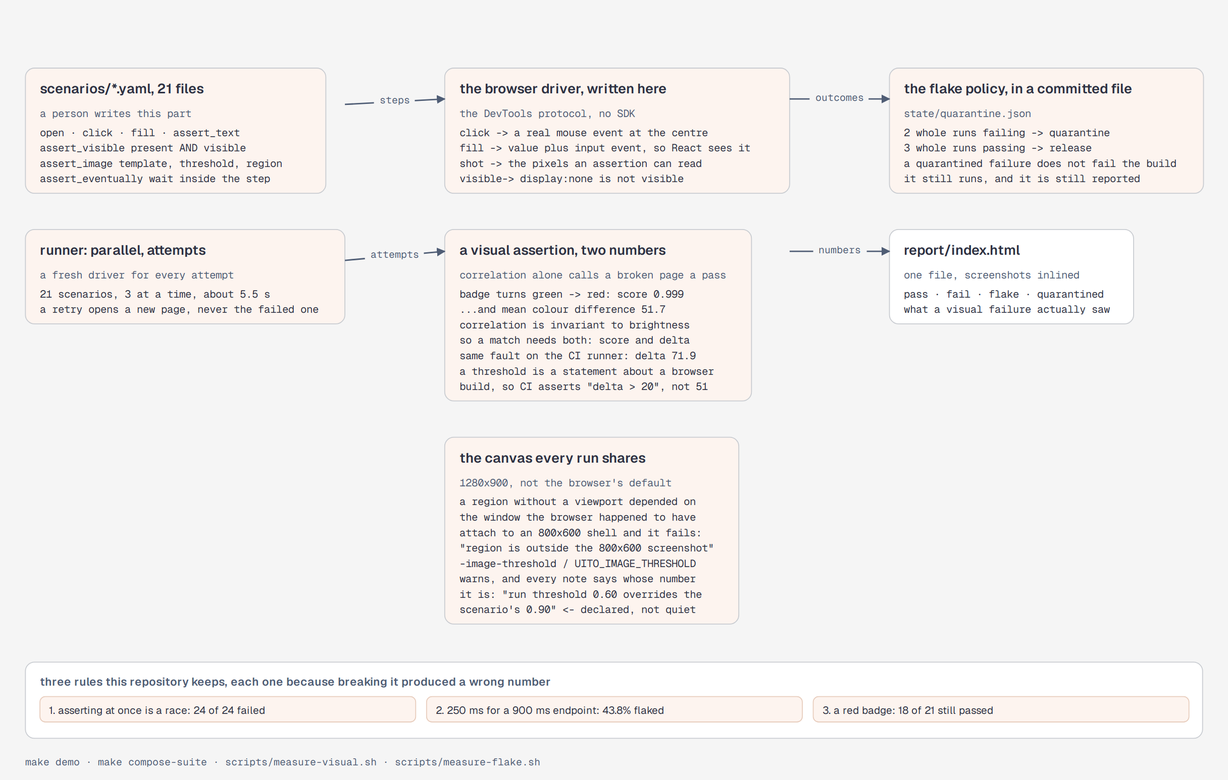
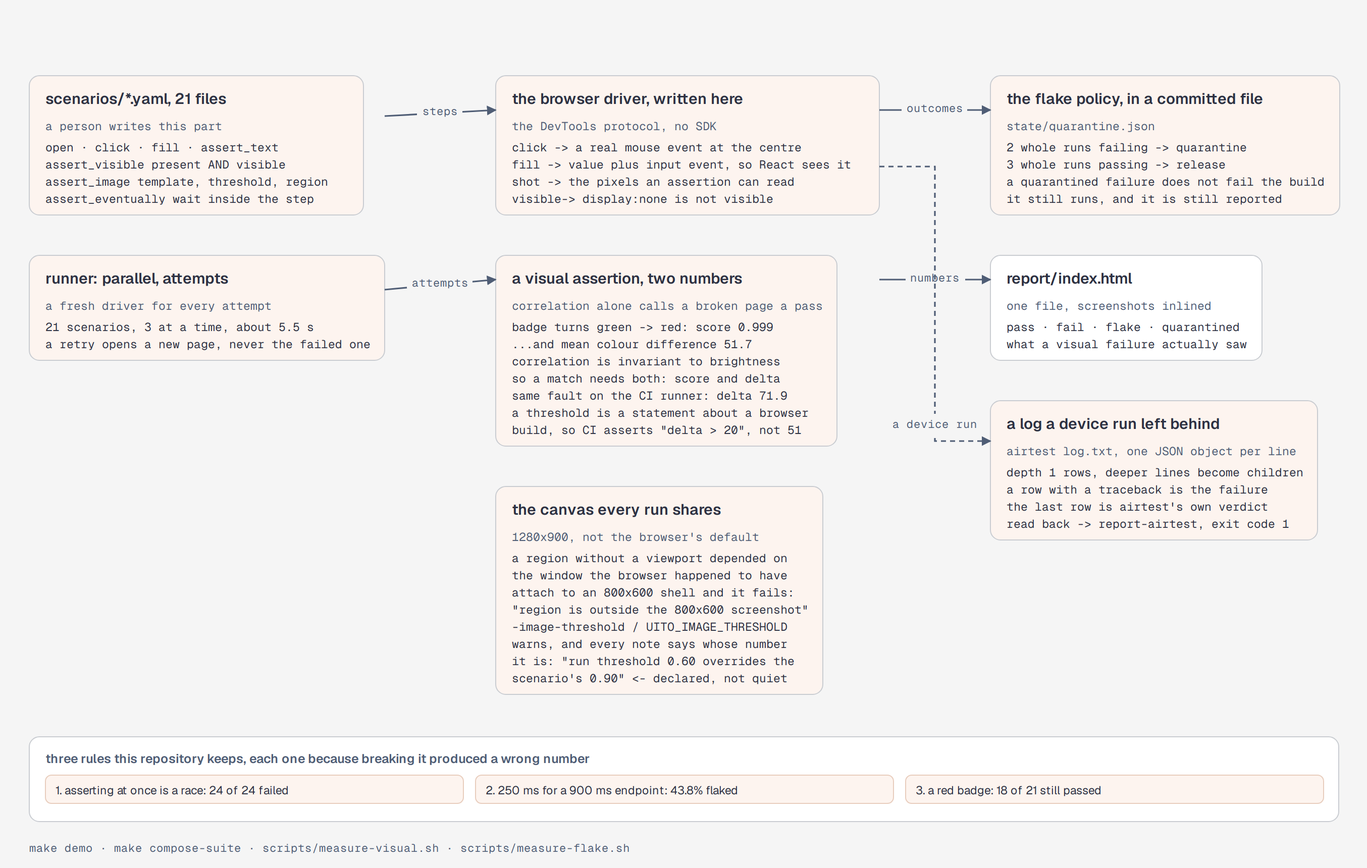
docs(figure): the device log, as the second thing that reaches this repository
The flow figure answers 'what does a scenario run do'; a device run arrives the other way round, so
the log reader gets its own block and a dashed route from the driver that would drive it. Sources now
name internal/airtestlog, and the export is regenerated.

diff --git a/docs/figures/ui-test-orchestrator-flow.html b/docs/figures/ui-test-orchestrator-flow.html
@@ -1,4 +1,4 @@
-<!-- diagram-meta {"topic":"ui-test-orchestrator-flow","level":"runtime","type":"flowchart","question":"What does a scenario run do, and what did each part measure?","sources":["cmd/orchestrator/main.go","internal/scenario/scenario.go","internal/runner/runner.go","internal/driver/cdp.go","internal/vision/vision.go","internal/flake/flake.go","internal/report/report.go","internal/app/app.go","scenarios","scenarios-flaky","scripts/measure-visual.sh","scripts/measure-flake.sh","scripts/demo-policy.sh","state/quarantine.json","Dockerfile","docker-compose.yml","Makefile",".github/workflows/ci.yml","README.md"],"updated":"2026-10-12"} -->
+<!-- diagram-meta {"topic":"ui-test-orchestrator-flow","level":"runtime","type":"flowchart","question":"What does a scenario run do, and what did each part measure?","sources":["cmd/orchestrator/main.go","internal/scenario/scenario.go","internal/runner/runner.go","internal/driver/cdp.go","internal/vision/vision.go","internal/flake/flake.go","internal/report/report.go","internal/app/app.go","scenarios","scenarios-flaky","scripts/measure-visual.sh","scripts/measure-flake.sh","scripts/demo-policy.sh","state/quarantine.json","internal/airtestlog/airtestlog.go","internal/airtestlog/report.go","internal/airtestlog/testdata","Dockerfile","docker-compose.yml","Makefile",".github/workflows/ci.yml","README.md"],"updated":"2026-10-19"} -->
 <!DOCTYPE html>
 <html lang="en">
 <head>
@@ -30,7 +30,7 @@
   <p class="eyebrow">rtc-media-bench · runtime + fault lab</p>
   <h1>Where a call breaks, and the four faults this lab reproduces on purpose</h1>
   <div class="diagram-container">
-<svg viewBox="0 0 1353 859" role="img" aria-labelledby="ui-test-orchestrator-flow-title ui-test-orchestrator-flow-desc" xmlns="http://www.w3.org/2000/svg"><title id="ui-test-orchestrator-flow-title">ui-test-orchestrator: what a scenario run does, and what each part measured</title><desc id="ui-test-orchestrator-flow-desc">A scenario file is executed by a runner that runs several at once and gives every attempt a fresh browser, because retrying on the page that failed re-runs the test in the state that broke it. The driver is written against the DevTools protocol directly: it clicks with a real mouse event at the element centre, fills by setting the value and dispatching the input event so a framework notices, answers whether an element is visible rather than merely present, and captures the pixels an assertion can read. A visual assertion reports two numbers, because correlation alone called a badge that turned red a pass at 0.999: the mean colour difference of 51.7 is what failed it. Outcomes go to a flake policy kept in a committed file, where two whole runs failing quarantine a scenario and three passing release it, and to a report that inlines its screenshots. The three measurements at the bottom are the ones this repository is built around: a check that asserts immediately is a race rather than a flake and fails 24 of 24 runs even with a retry; waiting 250 milliseconds for a 900 millisecond endpoint flakes 43.8 percent of runs while waiting 8 seconds flakes none of 168; and on a page whose status badge turned red, 18 of 21 scenarios still passed, because only the three visual ones looked.</desc><defs><marker id="arrowhead" viewBox="0 0 10 10" refX="9" refY="5" markerWidth="6" markerHeight="6" orient="auto-start-reverse"><path d="M 0 0 L 10 5 L 0 10 z" fill="#4f5d75"/></marker></defs><rect x="28" y="74" width="331" height="138" rx="10" fill="#fdf4ef" stroke="#c9ccd1"/><text x="44" y="102" font-family="'Geist', system-ui, sans-serif" font-size="15" font-weight="600" fill="#2d3142" text-anchor="start">scenarios/*.yaml, 21 files</text><text x="44" y="128" font-family="'Geist Mono', ui-monospace, monospace" font-size="11.5" font-weight="400" fill="#4f5d75" text-anchor="start">a person writes this part</text><text x="44" y="149" font-family="'Geist Mono', ui-monospace, monospace" font-size="11.5" font-weight="400" fill="#2d3142" text-anchor="start">open · click · fill · assert_text</text><text x="44" y="166" font-family="'Geist Mono', ui-monospace, monospace" font-size="11.5" font-weight="400" fill="#2d3142" text-anchor="start">assert_visible  present AND visible</text><text x="44" y="183" font-family="'Geist Mono', ui-monospace, monospace" font-size="11.5" font-weight="400" fill="#2d3142" text-anchor="start">assert_image    template, threshold, region</text><text x="44" y="200" font-family="'Geist Mono', ui-monospace, monospace" font-size="11.5" font-weight="400" fill="#2d3142" text-anchor="start">assert_eventually  wait inside the step</text><rect x="28" y="252" width="352" height="104" rx="10" fill="#fdf4ef" stroke="#c9ccd1"/><text x="44" y="280" font-family="'Geist', system-ui, sans-serif" font-size="15" font-weight="600" fill="#2d3142" text-anchor="start">runner: parallel, attempts</text><text x="44" y="306" font-family="'Geist Mono', ui-monospace, monospace" font-size="11.5" font-weight="400" fill="#4f5d75" text-anchor="start">a fresh driver for every attempt</text><text x="44" y="327" font-family="'Geist Mono', ui-monospace, monospace" font-size="11.5" font-weight="400" fill="#2d3142" text-anchor="start">21 scenarios, 3 at a time, about 5.5 s</text><text x="44" y="344" font-family="'Geist Mono', ui-monospace, monospace" font-size="11.5" font-weight="400" fill="#2d3142" text-anchor="start">a retry opens a new page, never the failed one</text><rect x="490" y="74" width="380" height="138" rx="10" fill="#fdf4ef" stroke="#c9ccd1"/><text x="506" y="102" font-family="'Geist', system-ui, sans-serif" font-size="15" font-weight="600" fill="#2d3142" text-anchor="start">the browser driver, written here</text><text x="506" y="128" font-family="'Geist Mono', ui-monospace, monospace" font-size="11.5" font-weight="400" fill="#4f5d75" text-anchor="start">the DevTools protocol, no SDK</text><text x="506" y="149" font-family="'Geist Mono', ui-monospace, monospace" font-size="11.5" font-weight="400" fill="#2d3142" text-anchor="start">click  -&gt; a real mouse event at the centre</text><text x="506" y="166" font-family="'Geist Mono', ui-monospace, monospace" font-size="11.5" font-weight="400" fill="#2d3142" text-anchor="start">fill   -&gt; value plus input event, so React sees it</text><text x="506" y="183" font-family="'Geist Mono', ui-monospace, monospace" font-size="11.5" font-weight="400" fill="#2d3142" text-anchor="start">shot   -&gt; the pixels an assertion can read</text><text x="506" y="200" font-family="'Geist Mono', ui-monospace, monospace" font-size="11.5" font-weight="400" fill="#2d3142" text-anchor="start">visible-&gt; display:none is not visible</text><rect x="490" y="252" width="338" height="189" rx="10" fill="#fdf4ef" stroke="#c9ccd1"/><text x="506" y="280" font-family="'Geist', system-ui, sans-serif" font-size="15" font-weight="600" fill="#2d3142" text-anchor="start">a visual assertion, two numbers</text><text x="506" y="306" font-family="'Geist Mono', ui-monospace, monospace" font-size="11.5" font-weight="400" fill="#4f5d75" text-anchor="start">correlation alone calls a broken page a pass</text><text x="506" y="327" font-family="'Geist Mono', ui-monospace, monospace" font-size="11.5" font-weight="400" fill="#2d3142" text-anchor="start">badge turns green -&gt; red: score 0.999</text><text x="506" y="344" font-family="'Geist Mono', ui-monospace, monospace" font-size="11.5" font-weight="400" fill="#2d3142" text-anchor="start">...and mean colour difference 51.7</text><text x="506" y="361" font-family="'Geist Mono', ui-monospace, monospace" font-size="11.5" font-weight="400" fill="#2d3142" text-anchor="start">correlation is invariant to brightness</text><text x="506" y="378" font-family="'Geist Mono', ui-monospace, monospace" font-size="11.5" font-weight="400" fill="#2d3142" text-anchor="start">so a match needs both: score and delta</text><text x="506" y="395" font-family="'Geist Mono', ui-monospace, monospace" font-size="11.5" font-weight="400" fill="#2d3142" text-anchor="start">same fault on the CI runner: delta 71.9</text><text x="506" y="412" font-family="'Geist Mono', ui-monospace, monospace" font-size="11.5" font-weight="400" fill="#2d3142" text-anchor="start">a threshold is a statement about a browser</text><text x="506" y="429" font-family="'Geist Mono', ui-monospace, monospace" font-size="11.5" font-weight="400" fill="#2d3142" text-anchor="start">build, so CI asserts &quot;delta &gt; 20&quot;, not 51</text><rect x="490" y="481" width="324" height="206" rx="10" fill="#fdf4ef" stroke="#c9ccd1"/><text x="506" y="509" font-family="'Geist', system-ui, sans-serif" font-size="15" font-weight="600" fill="#2d3142" text-anchor="start">the canvas every run shares</text><text x="506" y="535" font-family="'Geist Mono', ui-monospace, monospace" font-size="11.5" font-weight="400" fill="#4f5d75" text-anchor="start">1280x900, not the browser&#x27;s default</text><text x="506" y="556" font-family="'Geist Mono', ui-monospace, monospace" font-size="11.5" font-weight="400" fill="#2d3142" text-anchor="start">a region without a viewport depended on</text><text x="506" y="573" font-family="'Geist Mono', ui-monospace, monospace" font-size="11.5" font-weight="400" fill="#2d3142" text-anchor="start">the window the browser happened to have</text><text x="506" y="590" font-family="'Geist Mono', ui-monospace, monospace" font-size="11.5" font-weight="400" fill="#2d3142" text-anchor="start">attach to an 800x600 shell and it fails:</text><text x="506" y="607" font-family="'Geist Mono', ui-monospace, monospace" font-size="11.5" font-weight="400" fill="#2d3142" text-anchor="start">&quot;region is outside the 800x600 screenshot&quot;</text><text x="506" y="624" font-family="'Geist Mono', ui-monospace, monospace" font-size="11.5" font-weight="400" fill="#2d3142" text-anchor="start">-image-threshold / UITO_IMAGE_THRESHOLD</text><text x="506" y="641" font-family="'Geist Mono', ui-monospace, monospace" font-size="11.5" font-weight="400" fill="#2d3142" text-anchor="start">warns, and every note says whose number</text><text x="506" y="658" font-family="'Geist Mono', ui-monospace, monospace" font-size="11.5" font-weight="400" fill="#2d3142" text-anchor="start">it is: &quot;run threshold 0.60 overrides the</text><text x="506" y="675" font-family="'Geist Mono', ui-monospace, monospace" font-size="11.5" font-weight="400" fill="#2d3142" text-anchor="start">scenario&#x27;s 0.90&quot;   &lt;- declared, not quiet</text><rect x="980" y="74" width="346" height="138" rx="10" fill="#fdf4ef" stroke="#c9ccd1"/><text x="996" y="102" font-family="'Geist', system-ui, sans-serif" font-size="15" font-weight="600" fill="#2d3142" text-anchor="start">the flake policy, in a committed file</text><text x="996" y="128" font-family="'Geist Mono', ui-monospace, monospace" font-size="11.5" font-weight="400" fill="#4f5d75" text-anchor="start">state/quarantine.json</text><text x="996" y="149" font-family="'Geist Mono', ui-monospace, monospace" font-size="11.5" font-weight="400" fill="#2d3142" text-anchor="start">2 whole runs failing  -&gt;  quarantine</text><text x="996" y="166" font-family="'Geist Mono', ui-monospace, monospace" font-size="11.5" font-weight="400" fill="#2d3142" text-anchor="start">3 whole runs passing  -&gt;  release</text><text x="996" y="183" font-family="'Geist Mono', ui-monospace, monospace" font-size="11.5" font-weight="400" fill="#2d3142" text-anchor="start">a quarantined failure does not fail the build</text><text x="996" y="200" font-family="'Geist Mono', ui-monospace, monospace" font-size="11.5" font-weight="400" fill="#2d3142" text-anchor="start">it still runs, and it is still reported</text><rect x="980" y="252" width="269" height="104" rx="10" fill="#ffffff" stroke="#c9ccd1"/><text x="996" y="280" font-family="'Geist', system-ui, sans-serif" font-size="15" font-weight="600" fill="#2d3142" text-anchor="start">report/index.html</text><text x="996" y="306" font-family="'Geist Mono', ui-monospace, monospace" font-size="11.5" font-weight="400" fill="#4f5d75" text-anchor="start">one file, screenshots inlined</text><text x="996" y="327" font-family="'Geist Mono', ui-monospace, monospace" font-size="11.5" font-weight="400" fill="#2d3142" text-anchor="start">pass · fail · flake · quarantined</text><text x="996" y="344" font-family="'Geist Mono', ui-monospace, monospace" font-size="11.5" font-weight="400" fill="#2d3142" text-anchor="start">what a visual failure actually saw</text><line x1="380" y1="114" x2="490" y2="108" stroke="#4f5d75" stroke-width="1.6" marker-end="url(#arrowhead)"/><rect x="412" y="99" width="45" height="20" rx="5" fill="#f5f5f5" stroke="none"/><text x="435" y="113" font-family="'Geist Mono', ui-monospace, monospace" font-size="11" font-weight="400" fill="#4f5d75" text-anchor="middle">steps</text><line x1="870" y1="108" x2="980" y2="108" stroke="#4f5d75" stroke-width="1.6" marker-end="url(#arrowhead)"/><rect x="892" y="96" width="65" height="20" rx="5" fill="#f5f5f5" stroke="none"/><text x="925" y="110" font-family="'Geist Mono', ui-monospace, monospace" font-size="11" font-weight="400" fill="#4f5d75" text-anchor="middle">outcomes</text><line x1="380" y1="286" x2="490" y2="276" stroke="#4f5d75" stroke-width="1.6" marker-end="url(#arrowhead)"/><rect x="402" y="269" width="65" height="20" rx="5" fill="#f5f5f5" stroke="none"/><text x="435" y="283" font-family="'Geist Mono', ui-monospace, monospace" font-size="11" font-weight="400" fill="#4f5d75" text-anchor="middle">attempts</text><line x1="870" y1="276" x2="980" y2="276" stroke="#4f5d75" stroke-width="1.6" marker-end="url(#arrowhead)"/><rect x="896" y="264" width="59" height="20" rx="5" fill="#f5f5f5" stroke="none"/><text x="925" y="278" font-family="'Geist Mono', ui-monospace, monospace" font-size="11" font-weight="400" fill="#4f5d75" text-anchor="middle">numbers</text><text x="28" y="843" font-family="'Geist Mono', ui-monospace, monospace" font-size="11" font-weight="400" fill="#4f5d75" text-anchor="start">make demo  ·  make compose-suite  ·  scripts/measure-visual.sh  ·  scripts/measure-flake.sh</text><rect x="28" y="729" width="1297" height="84" rx="10" fill="#ffffff" stroke="#c9ccd1"/><text x="44" y="755" font-family="'Geist', system-ui, sans-serif" font-size="12.5" font-weight="600" fill="#4f5d75" text-anchor="start">three rules this repository keeps, each one because breaking it produced a wrong number</text><rect x="44" y="767" width="414" height="28" rx="6" fill="#fdf4ef" stroke="#e8cdbd"/><text x="54" y="786" font-family="'Geist', system-ui, sans-serif" font-size="11.5" font-weight="400" fill="#2d3142" text-anchor="start">1. asserting at once is a race: 24 of 24 failed</text><rect x="470" y="767" width="414" height="28" rx="6" fill="#fdf4ef" stroke="#e8cdbd"/><text x="480" y="786" font-family="'Geist', system-ui, sans-serif" font-size="11.5" font-weight="400" fill="#2d3142" text-anchor="start">2. 250 ms for a 900 ms endpoint: 43.8% flaked</text><rect x="896" y="767" width="414" height="28" rx="6" fill="#fdf4ef" stroke="#e8cdbd"/><text x="906" y="786" font-family="'Geist', system-ui, sans-serif" font-size="11.5" font-weight="400" fill="#2d3142" text-anchor="start">3. a red badge: 18 of 21 still passed</text></svg>
+<svg viewBox="0 0 1353 859" role="img" aria-labelledby="ui-test-orchestrator-flow-title ui-test-orchestrator-flow-desc" xmlns="http://www.w3.org/2000/svg"><title id="ui-test-orchestrator-flow-title">ui-test-orchestrator: what a scenario run does, and what each part measured</title><desc id="ui-test-orchestrator-flow-desc">A scenario file is executed by a runner that runs several at once and gives every attempt a fresh browser, because retrying on the page that failed re-runs the test in the state that broke it. The driver is written against the DevTools protocol directly: it clicks with a real mouse event at the element centre, fills by setting the value and dispatching the input event so a framework notices, answers whether an element is visible rather than merely present, and captures the pixels an assertion can read. A visual assertion reports two numbers, because correlation alone called a badge that turned red a pass at 0.999: the mean colour difference of 51.7 is what failed it. Outcomes go to a flake policy kept in a committed file, where two whole runs failing quarantine a scenario and three passing release it, and to a report that inlines its screenshots. The three measurements at the bottom are the ones this repository is built around: a check that asserts immediately is a race rather than a flake and fails 24 of 24 runs even with a retry; waiting 250 milliseconds for a 900 millisecond endpoint flakes 43.8 percent of runs while waiting 8 seconds flakes none of 168; and on a page whose status badge turned red, 18 of 21 scenarios still passed, because only the three visual ones looked. A device run arrives the other way round: it leaves an Airtest log in a format of its own, and this repository reads it back with Airtest own rules - a row at depth 1, deeper lines as its children, a row whose data carries a traceback marked as the failure - then writes its own report and returns the same exit code a browser run would, so a device run can gate a build instead of waiting to be looked at.</desc><defs><marker id="arrowhead" viewBox="0 0 10 10" refX="9" refY="5" markerWidth="6" markerHeight="6" orient="auto-start-reverse"><path d="M 0 0 L 10 5 L 0 10 z" fill="#4f5d75"/></marker></defs><rect x="28" y="74" width="331" height="138" rx="10" fill="#fdf4ef" stroke="#c9ccd1"/><text x="44" y="102" font-family="'Geist', system-ui, sans-serif" font-size="15" font-weight="600" fill="#2d3142" text-anchor="start">scenarios/*.yaml, 21 files</text><text x="44" y="128" font-family="'Geist Mono', ui-monospace, monospace" font-size="11.5" font-weight="400" fill="#4f5d75" text-anchor="start">a person writes this part</text><text x="44" y="149" font-family="'Geist Mono', ui-monospace, monospace" font-size="11.5" font-weight="400" fill="#2d3142" text-anchor="start">open · click · fill · assert_text</text><text x="44" y="166" font-family="'Geist Mono', ui-monospace, monospace" font-size="11.5" font-weight="400" fill="#2d3142" text-anchor="start">assert_visible  present AND visible</text><text x="44" y="183" font-family="'Geist Mono', ui-monospace, monospace" font-size="11.5" font-weight="400" fill="#2d3142" text-anchor="start">assert_image    template, threshold, region</text><text x="44" y="200" font-family="'Geist Mono', ui-monospace, monospace" font-size="11.5" font-weight="400" fill="#2d3142" text-anchor="start">assert_eventually  wait inside the step</text><rect x="28" y="252" width="352" height="104" rx="10" fill="#fdf4ef" stroke="#c9ccd1"/><text x="44" y="280" font-family="'Geist', system-ui, sans-serif" font-size="15" font-weight="600" fill="#2d3142" text-anchor="start">runner: parallel, attempts</text><text x="44" y="306" font-family="'Geist Mono', ui-monospace, monospace" font-size="11.5" font-weight="400" fill="#4f5d75" text-anchor="start">a fresh driver for every attempt</text><text x="44" y="327" font-family="'Geist Mono', ui-monospace, monospace" font-size="11.5" font-weight="400" fill="#2d3142" text-anchor="start">21 scenarios, 3 at a time, about 5.5 s</text><text x="44" y="344" font-family="'Geist Mono', ui-monospace, monospace" font-size="11.5" font-weight="400" fill="#2d3142" text-anchor="start">a retry opens a new page, never the failed one</text><rect x="490" y="74" width="380" height="138" rx="10" fill="#fdf4ef" stroke="#c9ccd1"/><text x="506" y="102" font-family="'Geist', system-ui, sans-serif" font-size="15" font-weight="600" fill="#2d3142" text-anchor="start">the browser driver, written here</text><text x="506" y="128" font-family="'Geist Mono', ui-monospace, monospace" font-size="11.5" font-weight="400" fill="#4f5d75" text-anchor="start">the DevTools protocol, no SDK</text><text x="506" y="149" font-family="'Geist Mono', ui-monospace, monospace" font-size="11.5" font-weight="400" fill="#2d3142" text-anchor="start">click  -&gt; a real mouse event at the centre</text><text x="506" y="166" font-family="'Geist Mono', ui-monospace, monospace" font-size="11.5" font-weight="400" fill="#2d3142" text-anchor="start">fill   -&gt; value plus input event, so React sees it</text><text x="506" y="183" font-family="'Geist Mono', ui-monospace, monospace" font-size="11.5" font-weight="400" fill="#2d3142" text-anchor="start">shot   -&gt; the pixels an assertion can read</text><text x="506" y="200" font-family="'Geist Mono', ui-monospace, monospace" font-size="11.5" font-weight="400" fill="#2d3142" text-anchor="start">visible-&gt; display:none is not visible</text><rect x="490" y="252" width="338" height="189" rx="10" fill="#fdf4ef" stroke="#c9ccd1"/><text x="506" y="280" font-family="'Geist', system-ui, sans-serif" font-size="15" font-weight="600" fill="#2d3142" text-anchor="start">a visual assertion, two numbers</text><text x="506" y="306" font-family="'Geist Mono', ui-monospace, monospace" font-size="11.5" font-weight="400" fill="#4f5d75" text-anchor="start">correlation alone calls a broken page a pass</text><text x="506" y="327" font-family="'Geist Mono', ui-monospace, monospace" font-size="11.5" font-weight="400" fill="#2d3142" text-anchor="start">badge turns green -&gt; red: score 0.999</text><text x="506" y="344" font-family="'Geist Mono', ui-monospace, monospace" font-size="11.5" font-weight="400" fill="#2d3142" text-anchor="start">...and mean colour difference 51.7</text><text x="506" y="361" font-family="'Geist Mono', ui-monospace, monospace" font-size="11.5" font-weight="400" fill="#2d3142" text-anchor="start">correlation is invariant to brightness</text><text x="506" y="378" font-family="'Geist Mono', ui-monospace, monospace" font-size="11.5" font-weight="400" fill="#2d3142" text-anchor="start">so a match needs both: score and delta</text><text x="506" y="395" font-family="'Geist Mono', ui-monospace, monospace" font-size="11.5" font-weight="400" fill="#2d3142" text-anchor="start">same fault on the CI runner: delta 71.9</text><text x="506" y="412" font-family="'Geist Mono', ui-monospace, monospace" font-size="11.5" font-weight="400" fill="#2d3142" text-anchor="start">a threshold is a statement about a browser</text><text x="506" y="429" font-family="'Geist Mono', ui-monospace, monospace" font-size="11.5" font-weight="400" fill="#2d3142" text-anchor="start">build, so CI asserts &quot;delta &gt; 20&quot;, not 51</text><rect x="490" y="481" width="324" height="206" rx="10" fill="#fdf4ef" stroke="#c9ccd1"/><text x="506" y="509" font-family="'Geist', system-ui, sans-serif" font-size="15" font-weight="600" fill="#2d3142" text-anchor="start">the canvas every run shares</text><text x="506" y="535" font-family="'Geist Mono', ui-monospace, monospace" font-size="11.5" font-weight="400" fill="#4f5d75" text-anchor="start">1280x900, not the browser&#x27;s default</text><text x="506" y="556" font-family="'Geist Mono', ui-monospace, monospace" font-size="11.5" font-weight="400" fill="#2d3142" text-anchor="start">a region without a viewport depended on</text><text x="506" y="573" font-family="'Geist Mono', ui-monospace, monospace" font-size="11.5" font-weight="400" fill="#2d3142" text-anchor="start">the window the browser happened to have</text><text x="506" y="590" font-family="'Geist Mono', ui-monospace, monospace" font-size="11.5" font-weight="400" fill="#2d3142" text-anchor="start">attach to an 800x600 shell and it fails:</text><text x="506" y="607" font-family="'Geist Mono', ui-monospace, monospace" font-size="11.5" font-weight="400" fill="#2d3142" text-anchor="start">&quot;region is outside the 800x600 screenshot&quot;</text><text x="506" y="624" font-family="'Geist Mono', ui-monospace, monospace" font-size="11.5" font-weight="400" fill="#2d3142" text-anchor="start">-image-threshold / UITO_IMAGE_THRESHOLD</text><text x="506" y="641" font-family="'Geist Mono', ui-monospace, monospace" font-size="11.5" font-weight="400" fill="#2d3142" text-anchor="start">warns, and every note says whose number</text><text x="506" y="658" font-family="'Geist Mono', ui-monospace, monospace" font-size="11.5" font-weight="400" fill="#2d3142" text-anchor="start">it is: &quot;run threshold 0.60 overrides the</text><text x="506" y="675" font-family="'Geist Mono', ui-monospace, monospace" font-size="11.5" font-weight="400" fill="#2d3142" text-anchor="start">scenario&#x27;s 0.90&quot;   &lt;- declared, not quiet</text><rect x="980" y="74" width="346" height="138" rx="10" fill="#fdf4ef" stroke="#c9ccd1"/><text x="996" y="102" font-family="'Geist', system-ui, sans-serif" font-size="15" font-weight="600" fill="#2d3142" text-anchor="start">the flake policy, in a committed file</text><text x="996" y="128" font-family="'Geist Mono', ui-monospace, monospace" font-size="11.5" font-weight="400" fill="#4f5d75" text-anchor="start">state/quarantine.json</text><text x="996" y="149" font-family="'Geist Mono', ui-monospace, monospace" font-size="11.5" font-weight="400" fill="#2d3142" text-anchor="start">2 whole runs failing  -&gt;  quarantine</text><text x="996" y="166" font-family="'Geist Mono', ui-monospace, monospace" font-size="11.5" font-weight="400" fill="#2d3142" text-anchor="start">3 whole runs passing  -&gt;  release</text><text x="996" y="183" font-family="'Geist Mono', ui-monospace, monospace" font-size="11.5" font-weight="400" fill="#2d3142" text-anchor="start">a quarantined failure does not fail the build</text><text x="996" y="200" font-family="'Geist Mono', ui-monospace, monospace" font-size="11.5" font-weight="400" fill="#2d3142" text-anchor="start">it still runs, and it is still reported</text><rect x="980" y="252" width="269" height="104" rx="10" fill="#ffffff" stroke="#c9ccd1"/><text x="996" y="280" font-family="'Geist', system-ui, sans-serif" font-size="15" font-weight="600" fill="#2d3142" text-anchor="start">report/index.html</text><text x="996" y="306" font-family="'Geist Mono', ui-monospace, monospace" font-size="11.5" font-weight="400" fill="#4f5d75" text-anchor="start">one file, screenshots inlined</text><text x="996" y="327" font-family="'Geist Mono', ui-monospace, monospace" font-size="11.5" font-weight="400" fill="#2d3142" text-anchor="start">pass · fail · flake · quarantined</text><text x="996" y="344" font-family="'Geist Mono', ui-monospace, monospace" font-size="11.5" font-weight="400" fill="#2d3142" text-anchor="start">what a visual failure actually saw</text><rect x="980" y="396" width="324" height="138" rx="10" fill="#fdf4ef" stroke="#c9ccd1"/><text x="996" y="424" font-family="'Geist', system-ui, sans-serif" font-size="15" font-weight="600" fill="#2d3142" text-anchor="start">a log a device run left behind</text><text x="996" y="450" font-family="'Geist Mono', ui-monospace, monospace" font-size="11.5" font-weight="400" fill="#4f5d75" text-anchor="start">airtest log.txt, one JSON object per line</text><text x="996" y="471" font-family="'Geist Mono', ui-monospace, monospace" font-size="11.5" font-weight="400" fill="#2d3142" text-anchor="start">depth 1 rows, deeper lines become children</text><text x="996" y="488" font-family="'Geist Mono', ui-monospace, monospace" font-size="11.5" font-weight="400" fill="#2d3142" text-anchor="start">a row with a traceback is the failure</text><text x="996" y="505" font-family="'Geist Mono', ui-monospace, monospace" font-size="11.5" font-weight="400" fill="#2d3142" text-anchor="start">the last row is airtest&#x27;s own verdict</text><text x="996" y="522" font-family="'Geist Mono', ui-monospace, monospace" font-size="11.5" font-weight="400" fill="#2d3142" text-anchor="start">read back -&gt; report-airtest, exit code 1</text><line x1="380" y1="114" x2="490" y2="108" stroke="#4f5d75" stroke-width="1.6" marker-end="url(#arrowhead)"/><rect x="412" y="99" width="45" height="20" rx="5" fill="#f5f5f5" stroke="none"/><text x="435" y="113" font-family="'Geist Mono', ui-monospace, monospace" font-size="11" font-weight="400" fill="#4f5d75" text-anchor="middle">steps</text><line x1="870" y1="108" x2="980" y2="108" stroke="#4f5d75" stroke-width="1.6" marker-end="url(#arrowhead)"/><rect x="892" y="96" width="65" height="20" rx="5" fill="#f5f5f5" stroke="none"/><text x="925" y="110" font-family="'Geist Mono', ui-monospace, monospace" font-size="11" font-weight="400" fill="#4f5d75" text-anchor="middle">outcomes</text><line x1="380" y1="286" x2="490" y2="276" stroke="#4f5d75" stroke-width="1.6" marker-end="url(#arrowhead)"/><rect x="402" y="269" width="65" height="20" rx="5" fill="#f5f5f5" stroke="none"/><text x="435" y="283" font-family="'Geist Mono', ui-monospace, monospace" font-size="11" font-weight="400" fill="#4f5d75" text-anchor="middle">attempts</text><line x1="870" y1="276" x2="980" y2="276" stroke="#4f5d75" stroke-width="1.6" marker-end="url(#arrowhead)"/><rect x="896" y="264" width="59" height="20" rx="5" fill="#f5f5f5" stroke="none"/><text x="925" y="278" font-family="'Geist Mono', ui-monospace, monospace" font-size="11" font-weight="400" fill="#4f5d75" text-anchor="middle">numbers</text><polyline points="870,164 925,164 925,436 980,436" fill="none" stroke="#4f5d75" stroke-width="1.6" marker-end="url(#arrowhead)" stroke-dasharray="5 4"/><rect x="879" y="409" width="92" height="20" rx="5" fill="#f5f5f5" stroke="none"/><text x="925" y="423" font-family="'Geist Mono', ui-monospace, monospace" font-size="11" font-weight="400" fill="#4f5d75" text-anchor="middle">a device run</text><text x="28" y="843" font-family="'Geist Mono', ui-monospace, monospace" font-size="11" font-weight="400" fill="#4f5d75" text-anchor="start">make demo  ·  make compose-suite  ·  scripts/measure-visual.sh  ·  scripts/measure-flake.sh</text><rect x="28" y="729" width="1297" height="84" rx="10" fill="#ffffff" stroke="#c9ccd1"/><text x="44" y="755" font-family="'Geist', system-ui, sans-serif" font-size="12.5" font-weight="600" fill="#4f5d75" text-anchor="start">three rules this repository keeps, each one because breaking it produced a wrong number</text><rect x="44" y="767" width="414" height="28" rx="6" fill="#fdf4ef" stroke="#e8cdbd"/><text x="54" y="786" font-family="'Geist', system-ui, sans-serif" font-size="11.5" font-weight="400" fill="#2d3142" text-anchor="start">1. asserting at once is a race: 24 of 24 failed</text><rect x="470" y="767" width="414" height="28" rx="6" fill="#fdf4ef" stroke="#e8cdbd"/><text x="480" y="786" font-family="'Geist', system-ui, sans-serif" font-size="11.5" font-weight="400" fill="#2d3142" text-anchor="start">2. 250 ms for a 900 ms endpoint: 43.8% flaked</text><rect x="896" y="767" width="414" height="28" rx="6" fill="#fdf4ef" stroke="#e8cdbd"/><text x="906" y="786" font-family="'Geist', system-ui, sans-serif" font-size="11.5" font-weight="400" fill="#2d3142" text-anchor="start">3. a red badge: 18 of 21 still passed</text></svg>
   </div>
   <p class="caption">Every fault in the catalogue lives in the ICE number, not in the websocket and not in the pod
   status: signalling and media fail separately, and the tools that report "healthy" are the ones that make this class

diff --git a/docs/figures/ui-test-orchestrator-flow.generator.py b/docs/figures/ui-test-orchestrator-flow.generator.py
@@ -49,6 +49,24 @@ def arrow(x1, y1, x2, y2, label="", dashed=False):
     return "".join(out)
 
 
+def elbow(x1, y1, x2, y2, label="", dashed=False):
+    """An arrow that goes right, down the gap between columns, then right: a straight line from a block
+    at the top to a block at the bottom crosses the boxes in between, which reads as a claim about
+    them."""
+    dash = ' stroke-dasharray="5 4"' if dashed else ""
+    xm = (x1 + x2) / 2
+    out = [f'<polyline points="{x1:.0f},{y1:.0f} {xm:.0f},{y1:.0f} {xm:.0f},{y2:.0f} {x2:.0f},{y2:.0f}" '
+           f'fill="none" stroke="{MUTED}" stroke-width="1.6" marker-end="url(#arrowhead)"{dash}/>']
+    if label:
+        # The label sits just above where the arrow lands, in the gap: the middle of the vertical run is
+        # where the neighbouring straight arrows pass, and a label on top of one of those reads as
+        # labelling it.
+        lw = width(label, 11, "mono") + 12
+        out.append(rect(xm - lw / 2, y2 - 27, lw, 20, fill=PAPER, stroke="none", rx=5))
+        out.append(text(xm, y2 - 13, label, size=11, fill=MUTED, family="mono", anchor="middle"))
+    return "".join(out)
+
+
 class Block:
     def __init__(self, title, subtitle, lines, tint=None):
         self.title, self.subtitle, self.lines, self.tint = title, subtitle, lines, tint
@@ -118,6 +136,14 @@ REPORT = Block("report/index.html", "one file, screenshots inlined", [
     ("pass · fail · flake · quarantined", True),
     ("what a visual failure actually saw", True),
 ])
+# The other way a run reaches this repository: a device run leaves a log in a format of its own, and a
+# log nobody reads is an attachment rather than a gate.
+LOGFILE = Block("a log a device run left behind", "airtest log.txt, one JSON object per line", [
+    ("depth 1 rows, deeper lines become children", True),
+    ("a row with a traceback is the failure", True),
+    ("the last row is airtest's own verdict", True),
+    ("read back -> report-airtest, exit code 1", True),
+], tint=TINT)
 # Short, because the strip gives each claim a third of the figure's width and the guard below fails
 # the build rather than clipping one: the numbers are the point, and they are the part that stays.
 CLAIMS = [
@@ -128,7 +154,7 @@ CLAIMS = [
 
 col1 = max(CLIENT.w, RUNNER.w)
 col2 = max(DRIVER.w, VISION.w, CANVAS.w)
-col3 = max(FLAKE.w, REPORT.w)
+col3 = max(FLAKE.w, REPORT.w, LOGFILE.w)
 MARGIN, TOP = 28, 74
 x1 = MARGIN
 x2 = x1 + col1 + GAP
@@ -139,7 +165,8 @@ client_y, runner_y = TOP, TOP + CLIENT.h + 40
 driver_y, vision_y = TOP, TOP + DRIVER.h + 40
 canvas_y = vision_y + VISION.h + 40
 flake_y, report_y = TOP, TOP + FLAKE.h + 40
-strip_y = max(runner_y + RUNNER.h, canvas_y + CANVAS.h, report_y + REPORT.h) + 42
+log_y = report_y + REPORT.h + 40
+strip_y = max(runner_y + RUNNER.h, canvas_y + CANVAS.h, log_y + LOGFILE.h) + 42
 strip_h = 84
 H = strip_y + strip_h + 46
 
@@ -156,7 +183,10 @@ svg.append('<desc id="ui-test-orchestrator-flow-desc">A scenario file is execute
            'measurements at the bottom are the ones this repository is built around: a check that asserts immediately is a race '
            'rather than a flake and fails 24 of 24 runs even with a retry; waiting 250 milliseconds for a 900 millisecond '
            'endpoint flakes 43.8 percent of runs while waiting 8 seconds flakes none of 168; and on a page whose status badge '
-           'turned red, 18 of 21 scenarios still passed, because only the three visual ones looked.</desc>')
+           'turned red, 18 of 21 scenarios still passed, because only the three visual ones looked. A device run arrives the other way round: '
+           'it leaves an Airtest log in a format of its own, and this repository reads it back with Airtest own rules - a row at depth 1, '
+           'deeper lines as its children, a row whose data carries a traceback marked as the failure - then writes its own report and '
+           'returns the same exit code a browser run would, so a device run can gate a build instead of waiting to be looked at.</desc>')
 
 svg.append(f'<defs><marker id="arrowhead" viewBox="0 0 10 10" refX="9" refY="5" markerWidth="6" markerHeight="6" '
            f'orient="auto-start-reverse"><path d="M 0 0 L 10 5 L 0 10 z" fill="{MUTED}"/></marker></defs>')
@@ -168,11 +198,13 @@ svg.append(VISION.render(x2, vision_y))
 svg.append(CANVAS.render(x2, canvas_y))
 svg.append(FLAKE.render(x3, flake_y))
 svg.append(REPORT.render(x3, report_y))
+svg.append(LOGFILE.render(x3, log_y))
 
 svg.append(arrow(x1 + col1, client_y + 40, x2, driver_y + 34, "steps"))
 svg.append(arrow(x2 + col2, driver_y + 34, x3, flake_y + 34, "outcomes"))
 svg.append(arrow(x1 + col1, runner_y + 34, x2, vision_y + 24, "attempts"))
 svg.append(arrow(x2 + col2, vision_y + 24, x3, report_y + 24, "numbers"))
+svg.append(elbow(x2 + col2, driver_y + 90, x3, log_y + 40, "a device run", dashed=True))
 svg.append(text(MARGIN, H - 16, "make demo  ·  make compose-suite  ·  scripts/measure-visual.sh  ·  scripts/measure-flake.sh",
                 size=11, fill=MUTED, family="mono"))
 svg.append(rect(MARGIN, strip_y, total_w - MARGIN * 2, strip_h))
@@ -197,8 +229,8 @@ meta = ('<!-- diagram-meta {"topic":"ui-test-orchestrator-flow","level":"runtime
         '"sources":["cmd/orchestrator/main.go","internal/scenario/scenario.go","internal/runner/runner.go",'
         '"internal/driver/cdp.go","internal/vision/vision.go","internal/flake/flake.go","internal/report/report.go",'
         '"internal/app/app.go","scenarios","scenarios-flaky","scripts/measure-visual.sh","scripts/measure-flake.sh",'
-        '"scripts/demo-policy.sh","state/quarantine.json","Dockerfile","docker-compose.yml","Makefile",".github/workflows/ci.yml","README.md"],'
-        '"updated":"2026-10-12"} -->')
+        '"scripts/demo-policy.sh","state/quarantine.json","internal/airtestlog/airtestlog.go","internal/airtestlog/report.go","internal/airtestlog/testdata","Dockerfile","docker-compose.yml","Makefile",".github/workflows/ci.yml","README.md"],'
+        '"updated":"2026-10-19"} -->')
 
 page = f"""{meta}
 <!DOCTYPE html>
